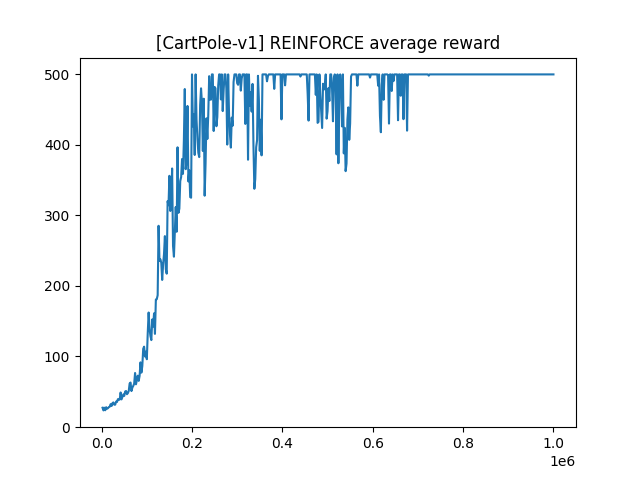
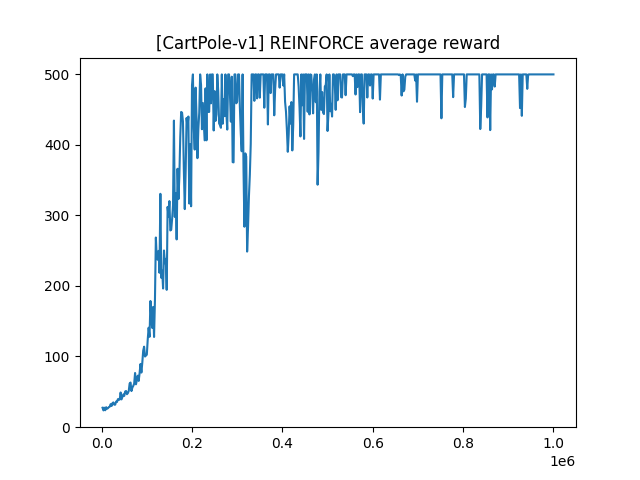
make reinforce modular

Changed region(s): [[0.2188, 0.125, 0.6562, 0.7188], [0.6875, 0.1562, 0.7812, 0.2812], [0.8125, 0.1562, 0.8438, 0.25]]

diff --git a/algos/reinforce.py b/algos/reinforce.py
@@ -1,4 +1,4 @@
-from env import ENV, ENV_KEY, SEED
+from environments import ENV_NAMES
 
 from distrax import Categorical
 import flax
@@ -12,41 +12,45 @@ import matplotlib.pyplot as plt
 import optax
 from typing import Sequence
 
-# Configuration parameters
+@functools.partial(flax.struct.dataclass, kw_only=True)
+class Config:
+    hidden_sizes: tuple[int] = flax.struct.field(pytree_node=False)
+    num_updates: int = flax.struct.field(pytree_node=False)
+    batch_count: int = flax.struct.field(pytree_node=False)
+    rollout_len: int = flax.struct.field(pytree_node=False)
+    discount_rate: float = flax.struct.field(pytree_node=False)
+    learning_rate: float = flax.struct.field(pytree_node=False)
+    adam_eps: float = flax.struct.field(pytree_node=False)
 
-params = {
-    "cartpole": {
-        "hidden_sizes": (30, 15),
-        "num_updates": 500,
-        "batch_count": 25,
-        "rollout_len": 2000,
-        "discount_rate": 0.99,
-        "learning_rate": 0.002,
-    },
-    "catch": {
-        "hidden_sizes": (30, 15),
-        "num_updates": 1000,
-        "batch_count": 50,
-        "rollout_len": 1000,
-        "discount_rate": 0.99,
-        "learning_rate": 0.002,
-    },
-    "breakout": {
-        "hidden_sizes": (400, 100),
-        "num_updates": 1000,
-        "batch_count": 50,
-        "rollout_len": 2000,
-        "discount_rate": 0.995,
-        "learning_rate": 0.001,
-    }
+ENV_CONFIG = {
+    "cartpole": Config(
+        hidden_sizes=(30, 15),
+        num_updates=500,
+        batch_count=25,
+        rollout_len=2000,
+        discount_rate=0.99,
+        learning_rate=0.002,
+        adam_eps=1e-5,
+    ),
+    "catch": Config(
+        hidden_sizes=(30, 15),
+        num_updates=1000,
+        batch_count=50,
+        rollout_len=1000,
+        discount_rate=0.99,
+        learning_rate=0.002,
+        adam_eps=1e-5,
+    ),
+    "breakout": Config(
+        hidden_sizes=(400, 100),
+        num_updates=1000,
+        batch_count=50,
+        rollout_len=2000,
+        discount_rate=0.995,
+        learning_rate=0.001,
+        adam_eps=1e-5,
+    ),
 }
-
-NUM_UPDATES = params[ENV_KEY]["num_updates"]
-BATCH_COUNT = params[ENV_KEY]["batch_count"]
-ROLLOUT_LEN = params[ENV_KEY]["rollout_len"]
-DISCOUNT_RATE = params[ENV_KEY]["discount_rate"]
-LEARNING_RATE = params[ENV_KEY]["learning_rate"]
-ADAM_EPS = 1e-5
 
 class Actor(nn.Module):
     """
@@ -73,31 +77,7 @@ class Transition:
     reward: jnp.ndarray
     done: jnp.ndarray
 
-# Create environment and initialize actor model
-
-rng_key, init_key = jax.random.split(jax.random.key(SEED), 2)
-env, env_params = gymnax.make(ENV)
-num_actions = env.action_space(env_params).n
-empty_observation = jnp.empty(env.observation_space(env_params).shape)
-
-actor = Actor(params[ENV_KEY]["hidden_sizes"], num_actions)
-actor_params = actor.init(init_key, empty_observation.ravel())
-
-print("Initialized actor parameters")
-print("Observation shape:", empty_observation.shape)
-print("Action space:", num_actions)
-print()
-
-# Create a train state
-
-train_state = TrainState.create(
-    apply_fn=actor.apply,
-    params=actor_params,
-    tx=optax.adam(LEARNING_RATE, eps=ADAM_EPS),
-)
-
-@jax.jit
-def run_rollout(train_state, rng_key):
+def run_rollout(env, env_params, train_state, rng_key, config):
     """Collects a policy rollout with a fixed number of steps."""
     rng_key, reset_key = jax.random.split(rng_key, 2)
     observation, env_state = env.reset(reset_key, env_params)
@@ -108,7 +88,7 @@ def run_rollout(train_state, rng_key):
         # Sample action
         train_state, env_state, observation, rng_key = rollout_state
         rng_key, action_key, step_key = jax.random.split(rng_key, 3)
-        action_dist = actor.apply(train_state.params, observation)
+        action_dist = train_state.apply_fn(train_state.params, observation)
         action = action_dist.sample(seed=action_key)
 
         # Run environment step
@@ -126,12 +106,11 @@ def run_rollout(train_state, rng_key):
     s, transitions = jax.lax.scan(
         step,
         init=(train_state, env_state, observation, rng_key),
-        length=ROLLOUT_LEN,
+        length=config.rollout_len,
     )
     return transitions
 
-@jax.jit
-def calc_discounted_rewards(transitions):
+def calc_discounted_rewards(transitions, discount_rate):
     """
     Calculates the cumulative discounted reward at each time step. The rewards are
     normalized to reduce variance with a rudimentary baseline.
@@ -141,7 +120,7 @@ def calc_discounted_rewards(transitions):
         total = jax.lax.select(
             transition.done,
             transition.reward,
-            transition.reward + DISCOUNT_RATE * total,
+            transition.reward + discount_rate * total,
         )
         return (total, total)
 
@@ -154,7 +133,6 @@ def calc_discounted_rewards(transitions):
     rewards = (rewards - jnp.mean(rewards)) / (jnp.std(rewards) + 1e-8)
     return rewards
 
-@jax.jit
 def calc_episode_mask(transitions):
     """Calculates a mask that is 1 if a transition is part of a full trajectory and 0 otherwise."""
     s, mask = jax.lax.scan(
@@ -165,12 +143,11 @@ def calc_episode_mask(transitions):
     )
     return mask
 
-@jax.jit
 def update_actor(train_state, transitions, rewards, episode_mask):
     """Calculates and applies the REINFORCE gradient estimator at each time step."""
     def reinforce_loss(params, transitions, rewards, episode_mask):
         """Calculates the REINFORCE estimator on a batch of transitions."""
-        action_dists = actor.apply(params, transitions.observation)
+        action_dists = train_state.apply_fn(params, transitions.observation)
         log_probs = action_dists.log_prob(transitions.action)
         reinforce_losses = -log_probs * rewards * episode_mask
         return jnp.sum(reinforce_losses) / jnp.sum(episode_mask)
@@ -180,7 +157,6 @@ def update_actor(train_state, transitions, rewards, episode_mask):
     train_state = train_state.apply_gradients(grads=grads)
     return (train_state, loss)
 
-@jax.jit
 def calc_episode_rewards(transitions):
     """Calculates the total real reward for each episode."""
     def calc_reward(prev_total, transition):
@@ -196,12 +172,11 @@ def calc_episode_rewards(transitions):
     )
     return rewards
 
-@jax.jit
-def run_update(train_state, rng_key):
+def run_update(env, env_params, train_state, rng_key, config):
     """Runs an iteration of the training loop by sampling trajectories and applying policy gradients."""
     rng_key, rollout_key = jax.random.split(rng_key, 2)
-    transitions = run_rollout(train_state, rollout_key)
-    rewards = calc_discounted_rewards(transitions)
+    transitions = run_rollout(env, env_params, train_state, rollout_key, config)
+    rewards = calc_discounted_rewards(transitions, config.discount_rate)
     episode_mask = calc_episode_mask(transitions)
     train_state, loss = update_actor(train_state, transitions, rewards, episode_mask)
 
@@ -209,44 +184,71 @@ def run_update(train_state, rng_key):
     average_reward = jnp.sum(total_rewards * transitions.done) / jnp.sum(transitions.done)
     return (train_state, average_reward, loss, rng_key)
 
-@functools.partial(jax.jit, static_argnums=2)
-def run_batch(train_state, rng_key, batch_count):
+@functools.partial(jax.jit, static_argnums=0)
+def run_batch(env, env_params, train_state, rng_key, config):
     """Trains the model for a batch of updates."""
     def run_once(batch_state, x):
         """Runs an update and carries over the train state."""
         train_state, rng_key = batch_state
-        train_state, average_reward, loss, rng_key = run_update(train_state, rng_key)
+        train_state, average_reward, loss, rng_key = \
+            run_update(env, env_params, train_state, rng_key, config)
         return ((train_state, rng_key), (average_reward, loss))
 
     batch_state, results = jax.lax.scan(
         run_once,
         init=(train_state, rng_key),
-        length=batch_count,
+        length=config.batch_count,
     )
     train_state, rng_key = batch_state
     average_rewards, losses = results
     return (train_state, rng_key, average_rewards, losses)
 
-# Run the training loop
+def train(env_key, seed):
+    # Create environment and initialize actor model
 
-average_rewards = []
-losses = []
-for u in range(int(NUM_UPDATES / BATCH_COUNT)):
-    train_state, rng_key, batch_rewards, batch_losses = run_batch(train_state, rng_key, BATCH_COUNT)
-    average_rewards += [float(r) for r in batch_rewards]
-    losses += [float(l) for l in batch_losses]
-    print(f"[Update {(u + 1) * BATCH_COUNT}]: Average reward {batch_rewards[-1]}")
+    rng_key, init_key = jax.random.split(jax.random.key(seed), 2)
+    env, env_params = gymnax.make(ENV_NAMES[env_key])
+    num_actions = env.action_space(env_params).n
+    empty_observation = jnp.empty(env.observation_space(env_params).shape)
 
-# Plot rewards and losses
+    config = ENV_CONFIG[env_key]
+    actor = Actor(config.hidden_sizes, num_actions)
+    actor_params = actor.init(init_key, empty_observation.ravel())
 
-step_counts = [u * ROLLOUT_LEN for u in range(1, NUM_UPDATES + 1)]
+    print("Initialized actor parameters")
+    print("Observation shape:", empty_observation.shape)
+    print("Action space:", num_actions)
+    print()
 
-reward_figure, reward_axes = plt.subplots()
-reward_axes.plot(step_counts, average_rewards)
-reward_axes.set_title(f"[{ENV}] REINFORCE average reward")
-reward_figure.savefig(f"./charts/reinforce/{ENV_KEY}_reward.png")
+    # Create a train state
 
-loss_figure, loss_axes = plt.subplots()
-loss_axes.plot(step_counts, losses)
-loss_axes.set_title(f"[{ENV}] REINFORCE loss")
-loss_figure.savefig(f"./charts/reinforce/{ENV_KEY}_loss.png")
+    train_state = TrainState.create(
+        apply_fn=actor.apply,
+        params=actor_params,
+        tx=optax.adam(config.learning_rate, eps=config.adam_eps),
+    )
+
+    # Run the training loop
+
+    average_rewards = []
+    losses = []
+    for u in range(int(config.num_updates / config.batch_count)):
+        train_state, rng_key, batch_rewards, batch_losses = \
+            run_batch(env, env_params, train_state, rng_key, config)
+        average_rewards += [float(r) for r in batch_rewards]
+        losses += [float(l) for l in batch_losses]
+        print(f"[Update {(u + 1) * config.batch_count}]: Average reward {batch_rewards[-1]}")
+
+    # Plot rewards and losses
+
+    step_counts = [u * config.rollout_len for u in range(1, config.num_updates + 1)]
+
+    reward_figure, reward_axes = plt.subplots()
+    reward_axes.plot(step_counts, average_rewards)
+    reward_axes.set_title(f"[{ENV_NAMES[env_key]}] REINFORCE average reward")
+    reward_figure.savefig(f"./charts/reinforce/{env_key}_reward.png")
+
+    loss_figure, loss_axes = plt.subplots()
+    loss_axes.plot(step_counts, losses)
+    loss_axes.set_title(f"[{ENV_NAMES[env_key]}] REINFORCE loss")
+    loss_figure.savefig(f"./charts/reinforce/{env_key}_loss.png")

diff --git a/algos/env.py b/algos/env.py
@@ -1,12 +1,3 @@
-# Environment configuration for training
-
-names = {
-    "cartpole": "CartPole-v1",
-    "catch": "Catch-bsuite",
-    "breakout": "Breakout-MinAtar",
-}
-key = "breakout"
-
-ENV = names[key]
-ENV_KEY = key
+ENV = "CartPole-v1"
+ENV_KEY = "cartpole"
 SEED = 0

diff --git a/algos/environments.py b/algos/environments.py
@@ -1,0 +1,5 @@
+ENV_NAMES = {
+    "cartpole": "CartPole-v1",
+    "catch": "Catch-bsuite",
+    "breakout": "Breakout-MinAtar",
+}

diff --git a/algos/main.py b/algos/main.py
@@ -1,0 +1,3 @@
+import reinforce
+
+reinforce.train("cartpole", 0)
